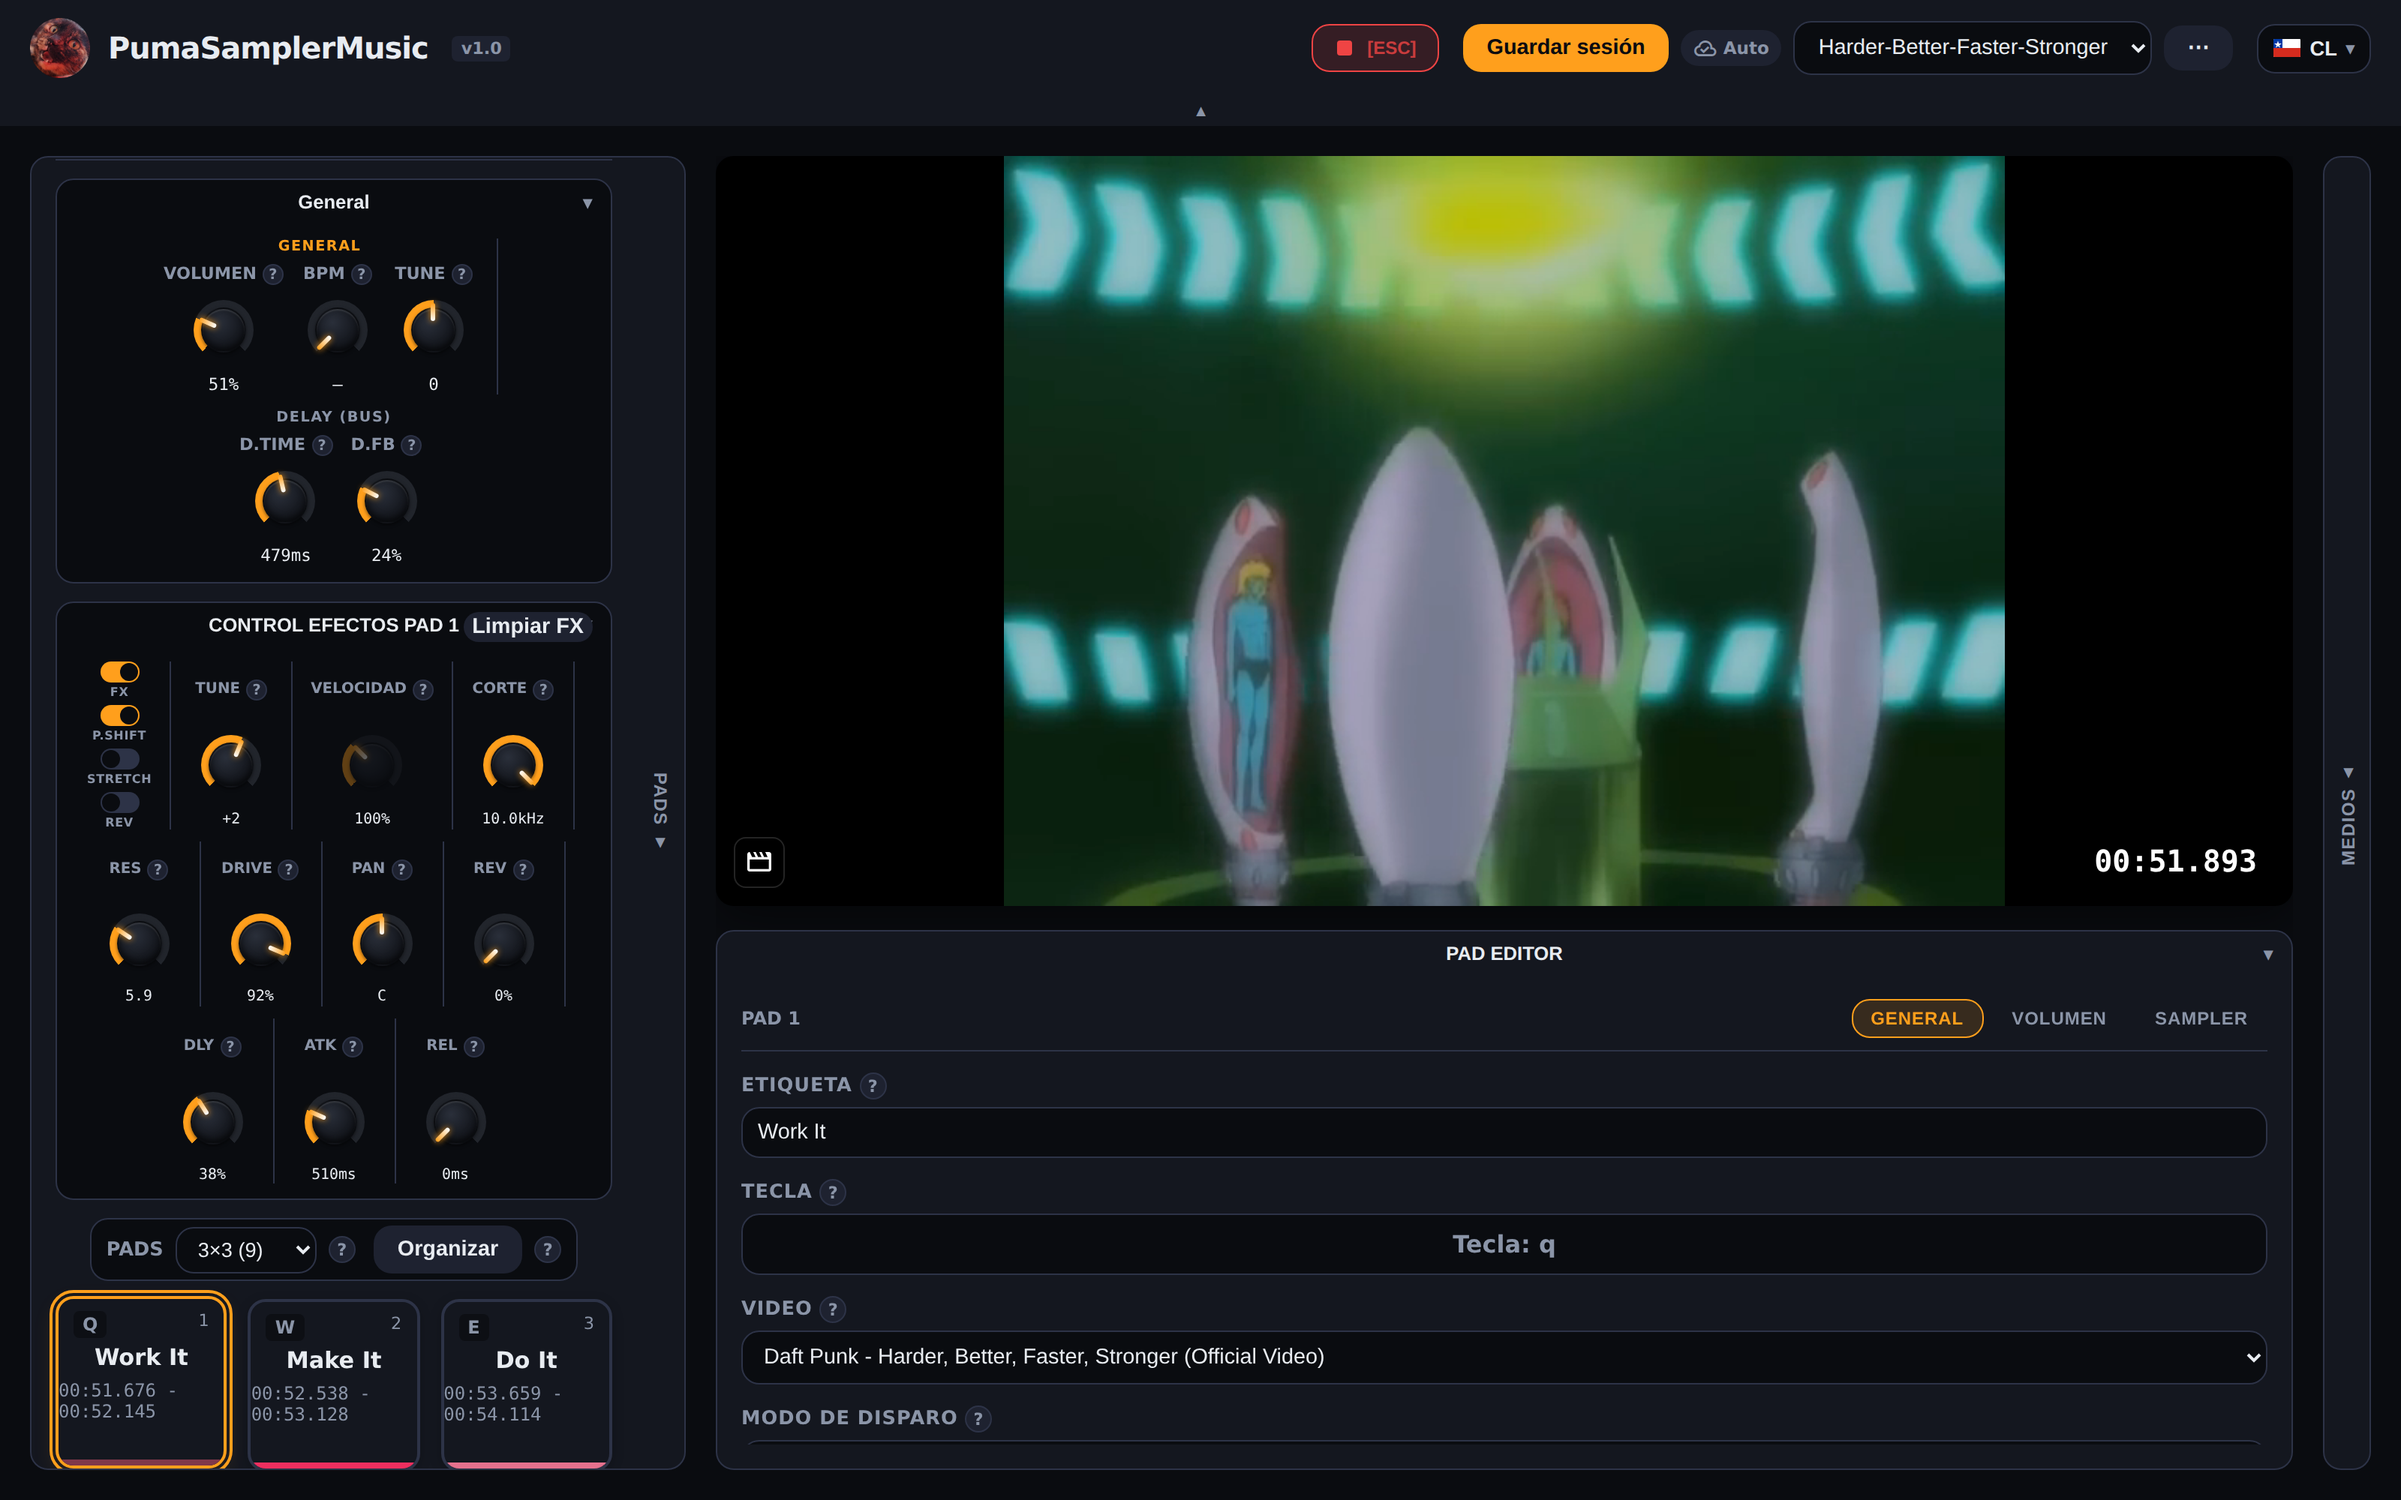
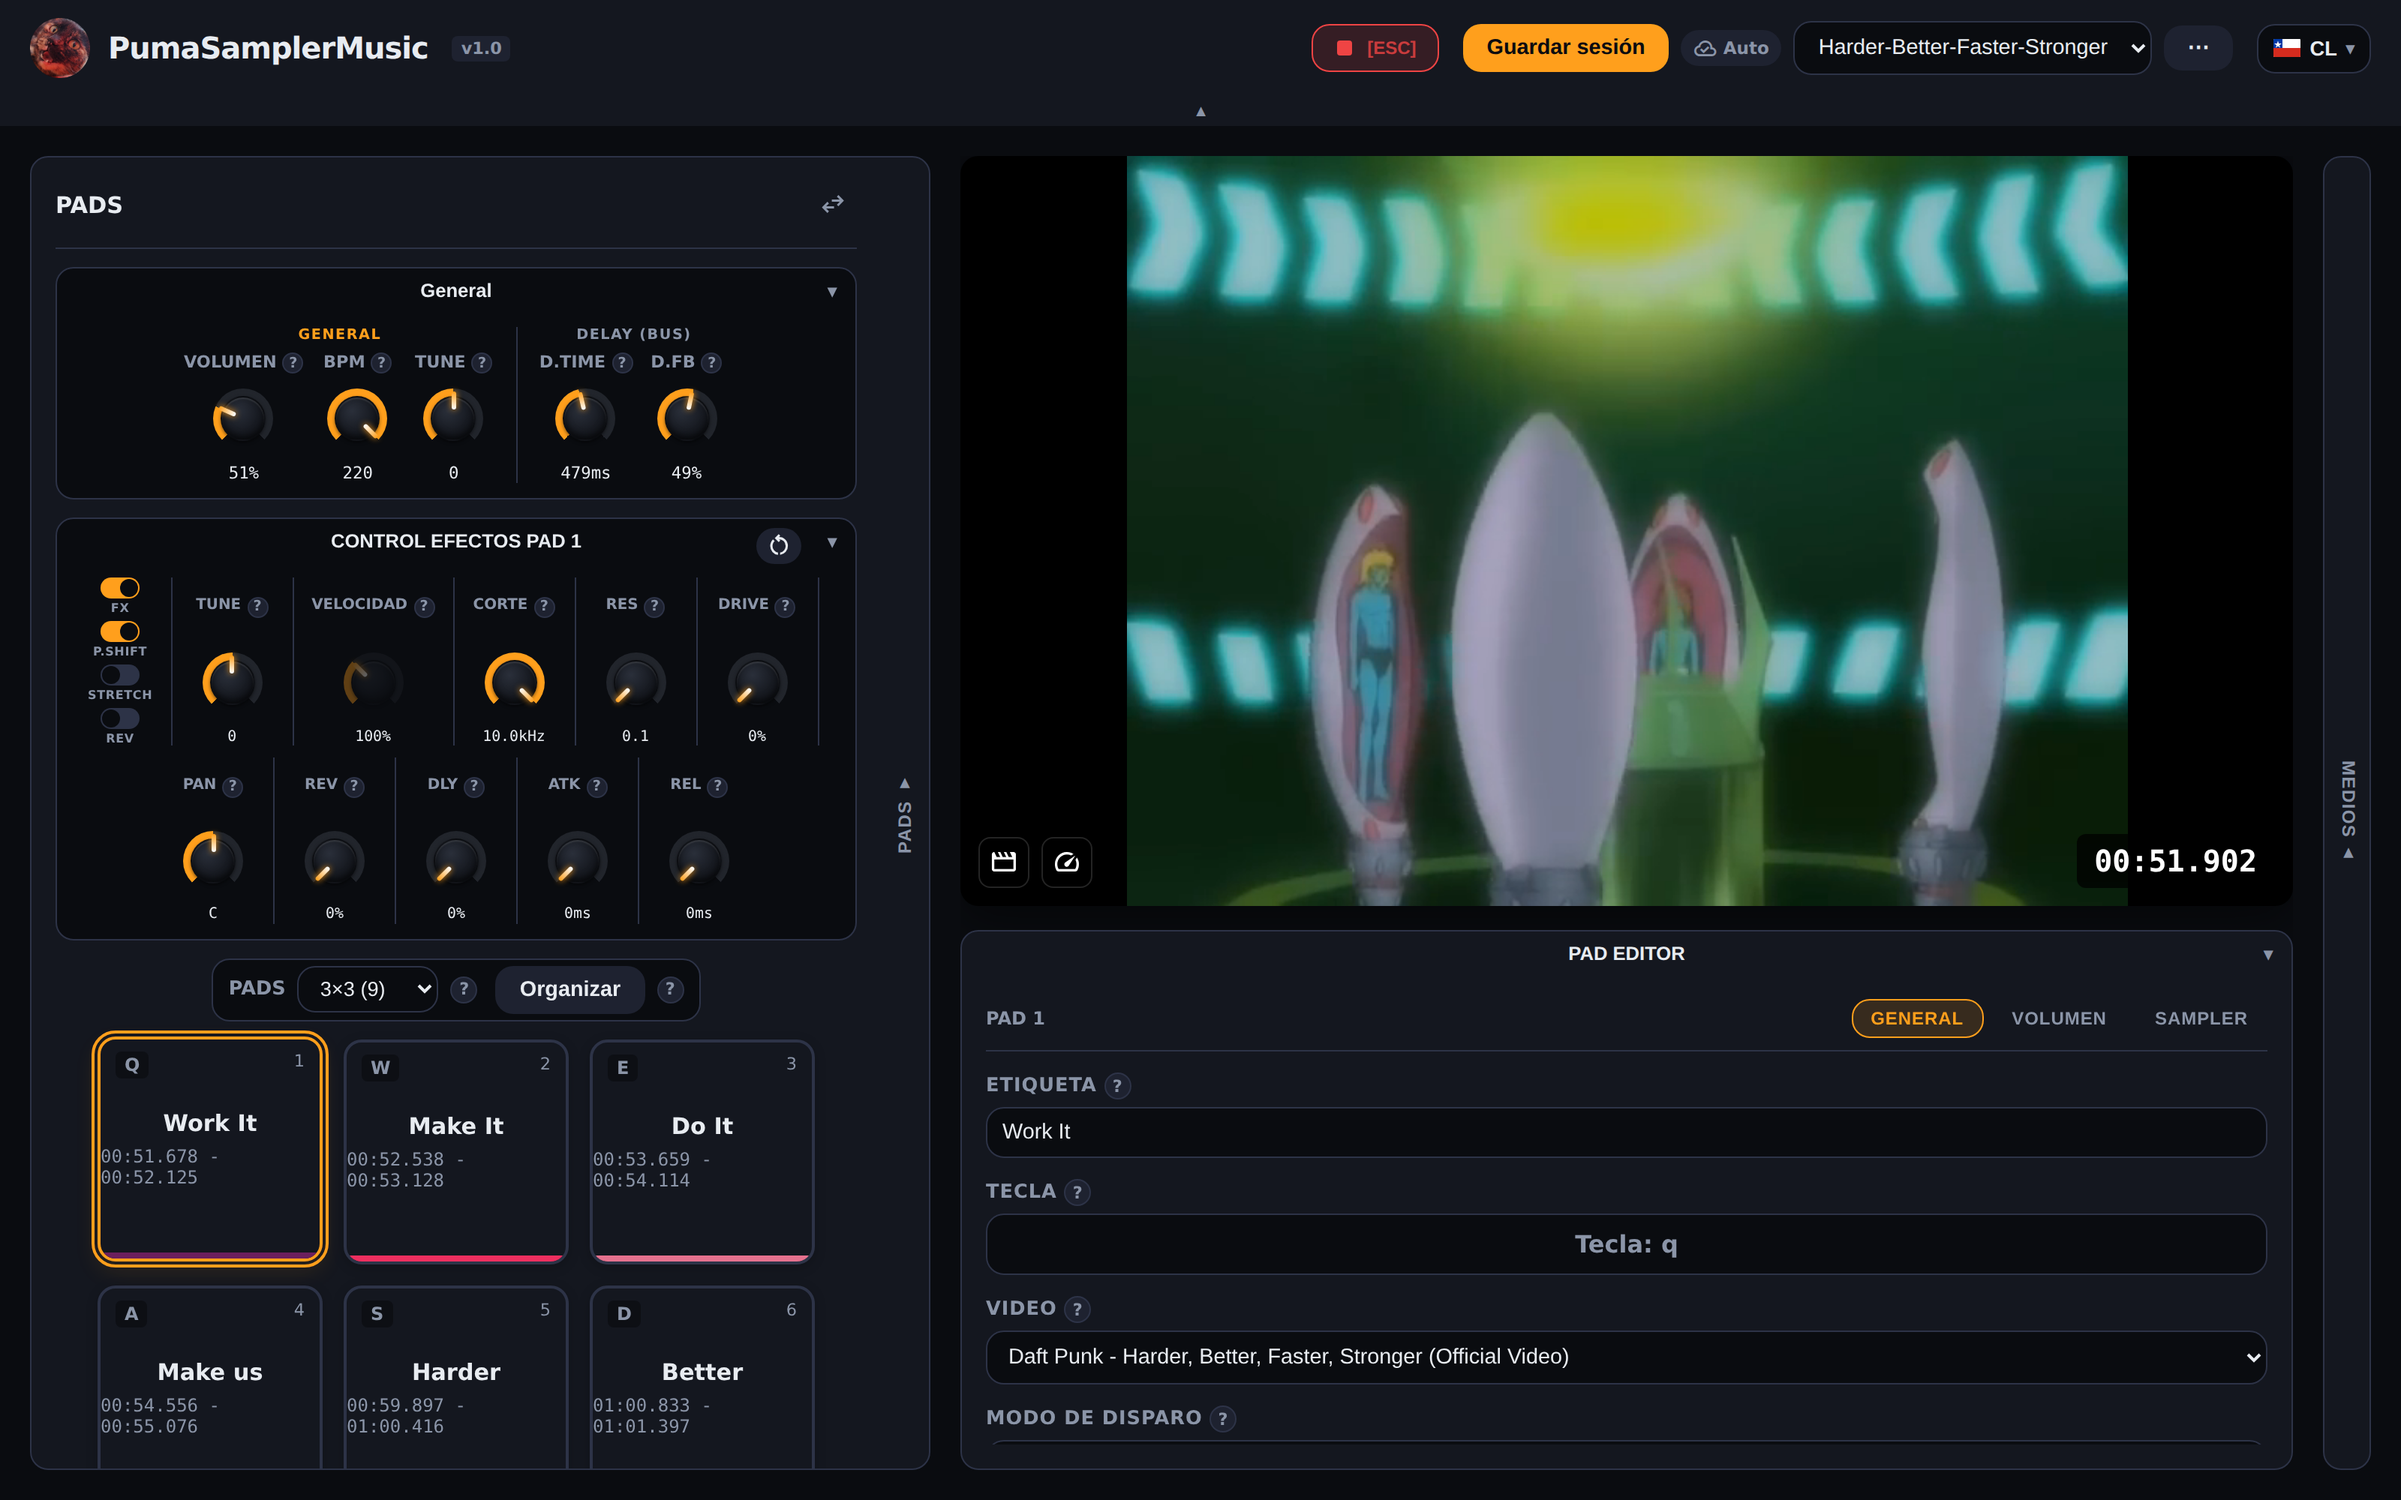
docs(readme): refresh screenshots to the current build + add manual-chops shot
Regenerate the main, Auto-Slicer, and vinyl screenshots against the current
app (same Daft Punk video) so they show today's UI — AKAI-style grid options,
General strip with BPM/Tune, the SAMPLER tab, the redesigned vinyl with its
rotating engraved timecode, and the one-row Sensitivity/Method/Generate slicer
layout. Add a new Manual Chops screenshot and embed it under the Auto-Slicer
section in both READMEs.

diff --git a/README.md b/README.md
@@ -133,6 +133,12 @@ Analiza una pista completa (detección de onsets por flujo espectral o cuadrícu
 
 <img src="docs/screenshot-slicer.png" alt="Auto-Slicer: forma de onda con marcadores de onsets y lista de cortes" width="100%" />
 
+### Chops manuales
+
+Corta la pista a mano: doble clic en la forma de onda para colocar cada corte, previsualízalos y asígnalos a los PADs o crea una sesión nueva con los seleccionados.
+
+<img src="docs/screenshot-chops.png" alt="Chops manuales: forma de onda con cortes colocados a mano y lista de cortes" width="100%" />
+
 ## Características
 
 | Área | Qué hace |

diff --git a/README_EN.md b/README_EN.md
@@ -133,6 +133,12 @@ Analyzes a full track (spectral-flux onset detection or a beat grid), lets you p
 
 <img src="docs/screenshot-slicer.png" alt="Auto-Slicer: waveform with onset markers and a slice list" width="100%" />
 
+### Manual chops
+
+Chop the track by hand: double-click the waveform to drop each cut, preview them, and assign them to pads or start a new session from the selected ones.
+
+<img src="docs/screenshot-chops.png" alt="Manual chops: waveform with hand-placed cuts and a slice list" width="100%" />
+
 ## Features
 
 | Area | What it does |
